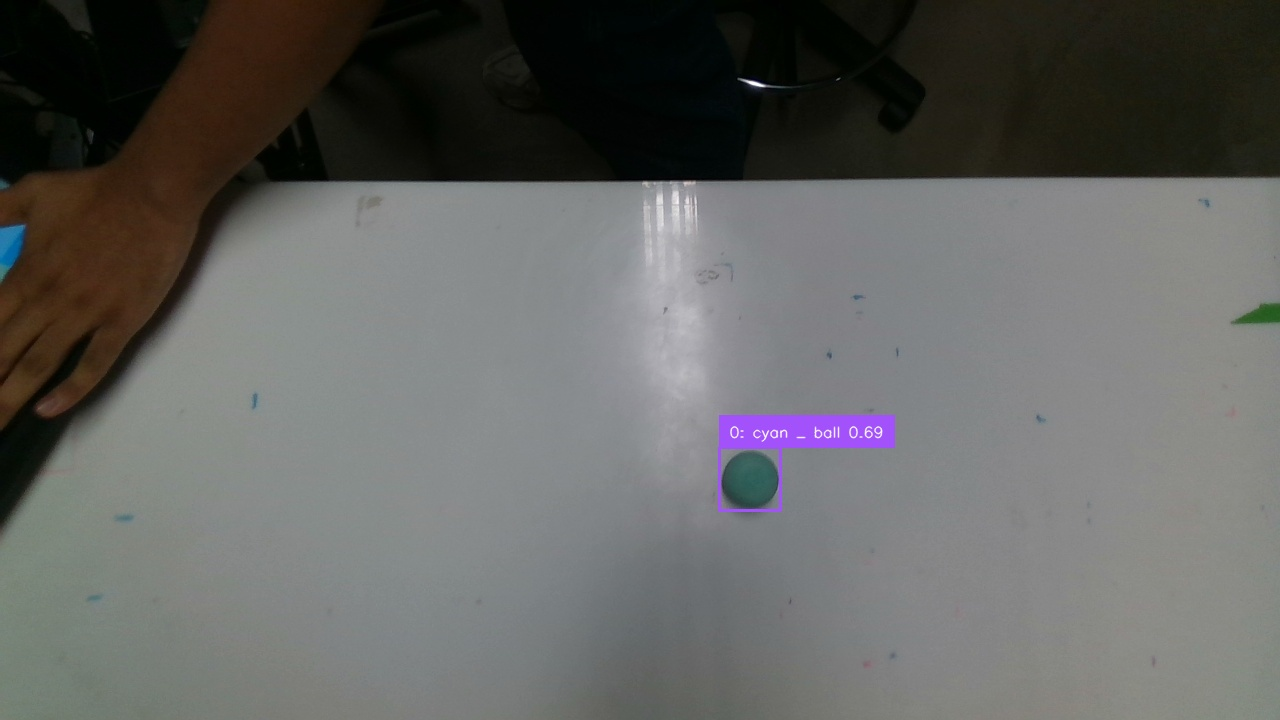
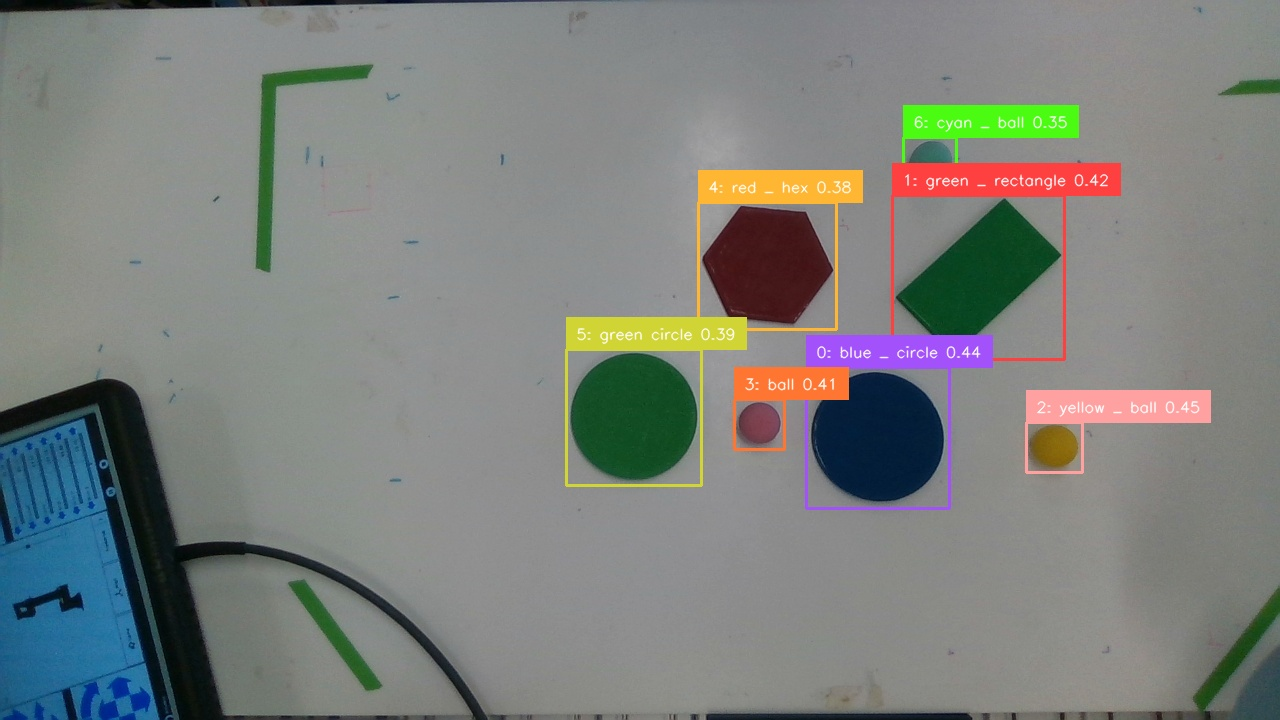
optimized left pick and place, correct robot states are set

diff --git a/ai_soft_touch_motion_planning/launch/launch_servers.launch.py b/ai_soft_touch_motion_planning/launch/launch_servers.launch.py
@@ -32,7 +32,7 @@ def generate_launch_description():
         {
             "planning_group": "right_ur16e",
             "place_x":0.161,
-            "place_y":0.637,
+            "place_y":0.587,
             "place_z":0.038,
             "orientation_w":0.038,
             "orientation_x":0.369,
@@ -66,13 +66,13 @@ def generate_launch_description():
         {
             "planning_group": "left_ur16e",
             "place_x":0.161,
-            "place_y":0.637,
+            "place_y":0.587,
             "place_z":0.038,
             "orientation_w":-0.030,
             "orientation_x":0.005,
             "orientation_y":0.999,
             "orientation_z":-0.011,
-            "pick_offset_x":0.005,
+            "pick_offset_x":-0.01,
             "pick_offset_y":0.01,
             "pick_offset_z":0.0,
             "look_offset_x":0.0,
@@ -85,7 +85,7 @@ def generate_launch_description():
             "pin_out1":12,
             "pin_out2":0,
             "arm_side":"left",
-            "ft_threshold": 10.0,
+            "ft_threshold": 17.0,
             "speed":0.13,
             "pretouch_distance":0.06,
         },
@@ -94,40 +94,40 @@ def generate_launch_description():
     )
 
     left_preaction_server = Node(
-    package="ai_soft_touch_motion_planning",
-    executable="predefined_state_server",
-    name="left_preaction_server",
-    output="screen",
-    parameters=[
-        robot_description_kinematics,
-        {
-            "planning_group": "left_ur16e",
-            "shoulder_pan": -2.370838467274801,
-            "shoulder_lift": -1.3852829945138474,
-            "elbow": 0.8208854834185999,
-            "wrist_1": -0.9787348669818421,
-            "wrist_2": -1.577686611806051,
-            "wrist_3": 0.7582406997680664,
-        },
-    ],
-    )   
+        package="ai_soft_touch_motion_planning",
+        executable="predefined_state_server",
+        name="left_preaction_server",
+        output="screen",
+        parameters=[
+            robot_description_kinematics,
+            {
+                "planning_group": "left_ur16e",
+                "shoulder_pan": 1.6606996059417725,
+                "shoulder_lift": -1.4407718938640137,
+                "elbow": -1.1456663608551025,
+                "wrist_1": -2.125268121758932,
+                "wrist_2": 1.45247220993042,
+                "wrist_3": 1.677489995956421,
+            },
+        ],
+    )
 
     right_preaction_server = Node(
-    package="ai_soft_touch_motion_planning",
-    executable="predefined_state_server",
-    name="right_preaction_server",
-    output="screen",
-    parameters=[
-        robot_description_kinematics,
-        {
-            "planning_group": "right_ur16e",
-            "shoulder_pan": -0.6716254393206995,
-            "shoulder_lift": -1.4663793754628678,
-            "elbow": -0.945048451423645,
-            "wrist_1": -2.2198287449278773,
-            "wrist_2": 1.6617790460586548,
-            "wrist_3": 0.09304250776767731,
-        },
+        package="ai_soft_touch_motion_planning",
+        executable="predefined_state_server",
+        name="right_preaction_server",
+        output="screen",
+        parameters=[
+            robot_description_kinematics,
+            {
+                "planning_group": "right_ur16e",
+                "shoulder_pan": -4.906626049672262,
+                "shoulder_lift": -1.626050134698385,
+                "elbow": 1.2541254202472132,
+                "wrist_1": -1.1249484878829499,
+                "wrist_2": -1.3437789122210901,
+                "wrist_3": -1.0042908827411097,
+            },
         ],
     )
 
@@ -140,12 +140,12 @@ def generate_launch_description():
             robot_description_kinematics,
             {
                 "planning_group": "left_ur16e",
-                "shoulder_pan": -3.7407785097705286,
-                "shoulder_lift": -1.8669382534422816,
-                "elbow": 2.030813995991842,
-                "wrist_1": -1.609297891656393,
-                "wrist_2": -1.2706669012652796,
-                "wrist_3": -1.3307812849627894,
+                "shoulder_pan": -0.1496956984149378,
+                "shoulder_lift": -1.468573884373047,
+                "elbow": -1.9538769721984863,
+                "wrist_1": -1.2700193685344239,
+                "wrist_2": 1.9041476249694824,
+                "wrist_3": -1.182901684437887,
             },
         ],
     )
@@ -159,15 +159,15 @@ def generate_launch_description():
             robot_description_kinematics,
             {
                 "planning_group": "right_ur16e",
-                "shoulder_pan": 0.5529513359069824,
-                "shoulder_lift": -1.1297608476928254,
-                "elbow": -2.2185397148132324,
-                "wrist_1": -1.0740774732879181,
-                "wrist_2": 1.1414644718170166,
-                "wrist_3": 2.0575029850006104,
+                "shoulder_pan": -3.13219124475588,
+                "shoulder_lift": -1.8146683178343714,
+                "elbow": 1.9976828734027308,
+                "wrist_1": -1.8108145199217738,
+                "wrist_2": -2.130192581807272,
+                "wrist_3": 0.8935091495513916,
             },
         ],
-)
+    )
 
     return LaunchDescription([
         rws_pick_and_place_server,

diff --git a/ai_soft_touch_motion_planning/src/pick_and_place_ft_feedback_server.cpp b/ai_soft_touch_motion_planning/src/pick_and_place_ft_feedback_server.cpp
@@ -348,7 +348,7 @@ public:
 
     // ft feedback downward movement
     void touch_object(){
-        std::this_thread::sleep_for(1s);
+        // std::this_thread::sleep_for(1s);
         if(!this->switch_controller()){
             RCLCPP_ERROR(node_->get_logger(),"Switching controller failed");
             return;
@@ -370,7 +370,7 @@ public:
                     std::this_thread::sleep_for(50ms);
                 }
                 this->stop_servo();
-                std::this_thread::sleep_for(1s);
+                // std::this_thread::sleep_for(1s);
                 this->switch_back_controller();
             }
         }

diff --git a/central_client/scripts/client.py b/central_client/scripts/client.py
@@ -21,7 +21,7 @@ from openai import OpenAI
 
 
 # Prompt used for the perception server (shapes to detect)
-TEXT_PROMPT = "blue_circle.red_triangle.green_square"
+TEXT_PROMPT = "blue_circle,red_hex,green_circle,green_rectangle,pink_sphere,yellow_sphere,cyan_sphere"
 
 
 class CentralClientNode(Node):

diff --git a/central_client/scripts/motion_planning_with_perception_v2.py b/central_client/scripts/motion_planning_with_perception_v2.py
@@ -12,7 +12,7 @@ from open_set_object_detection_msgs.srv import GetObjectLocations
 from std_msgs.msg import String
 from geometry_msgs.msg import PoseStamped
 
-TEXT_PROMPT = "red_hexagon"
+TEXT_PROMPT = "green_circle"
 
 
 class PerceptionAndPickClient(Node):
